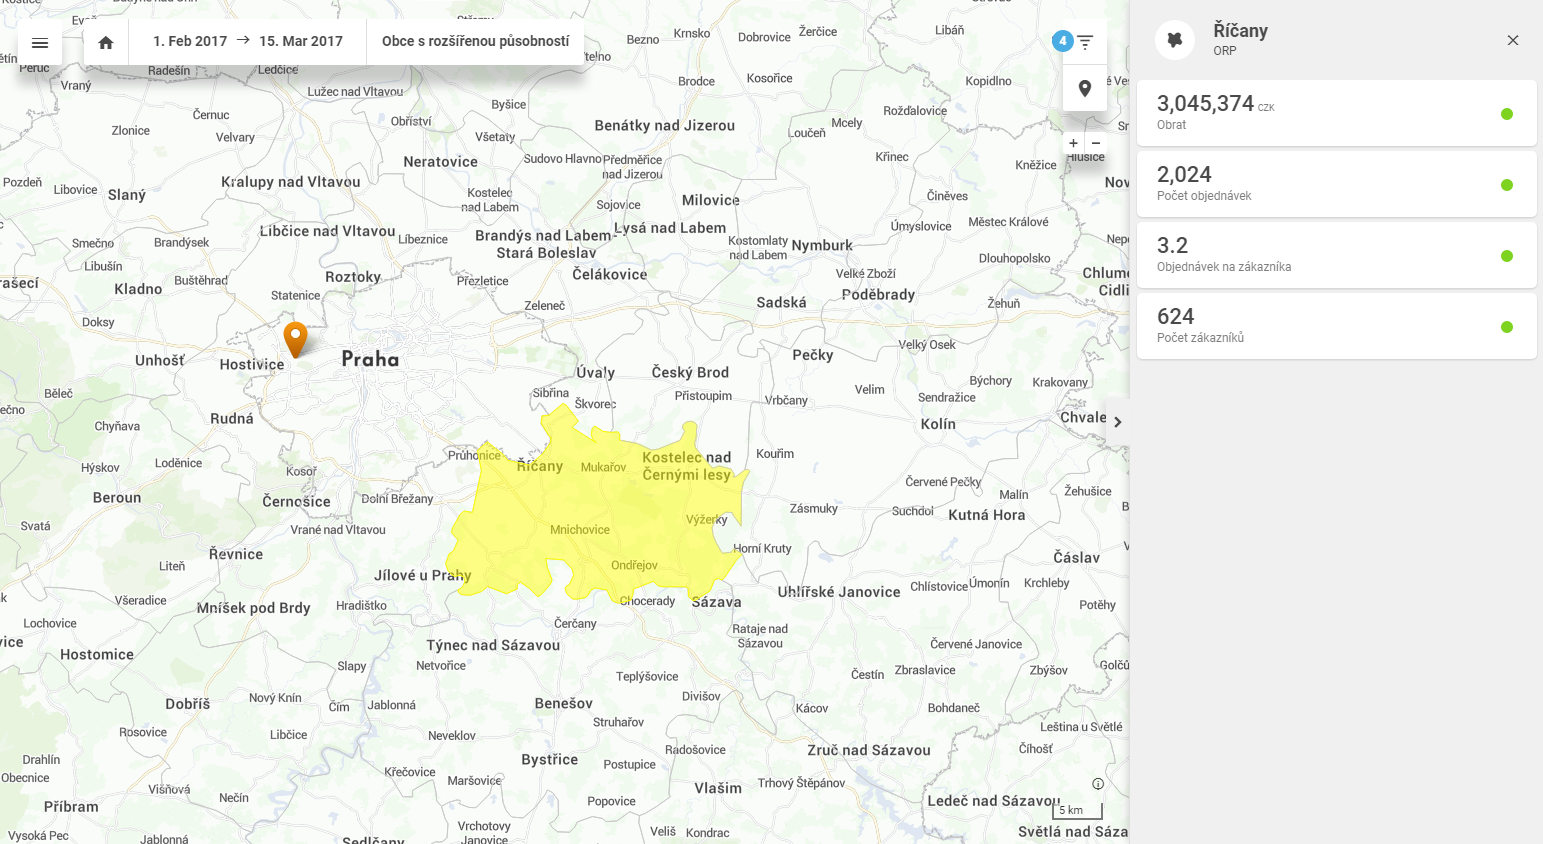
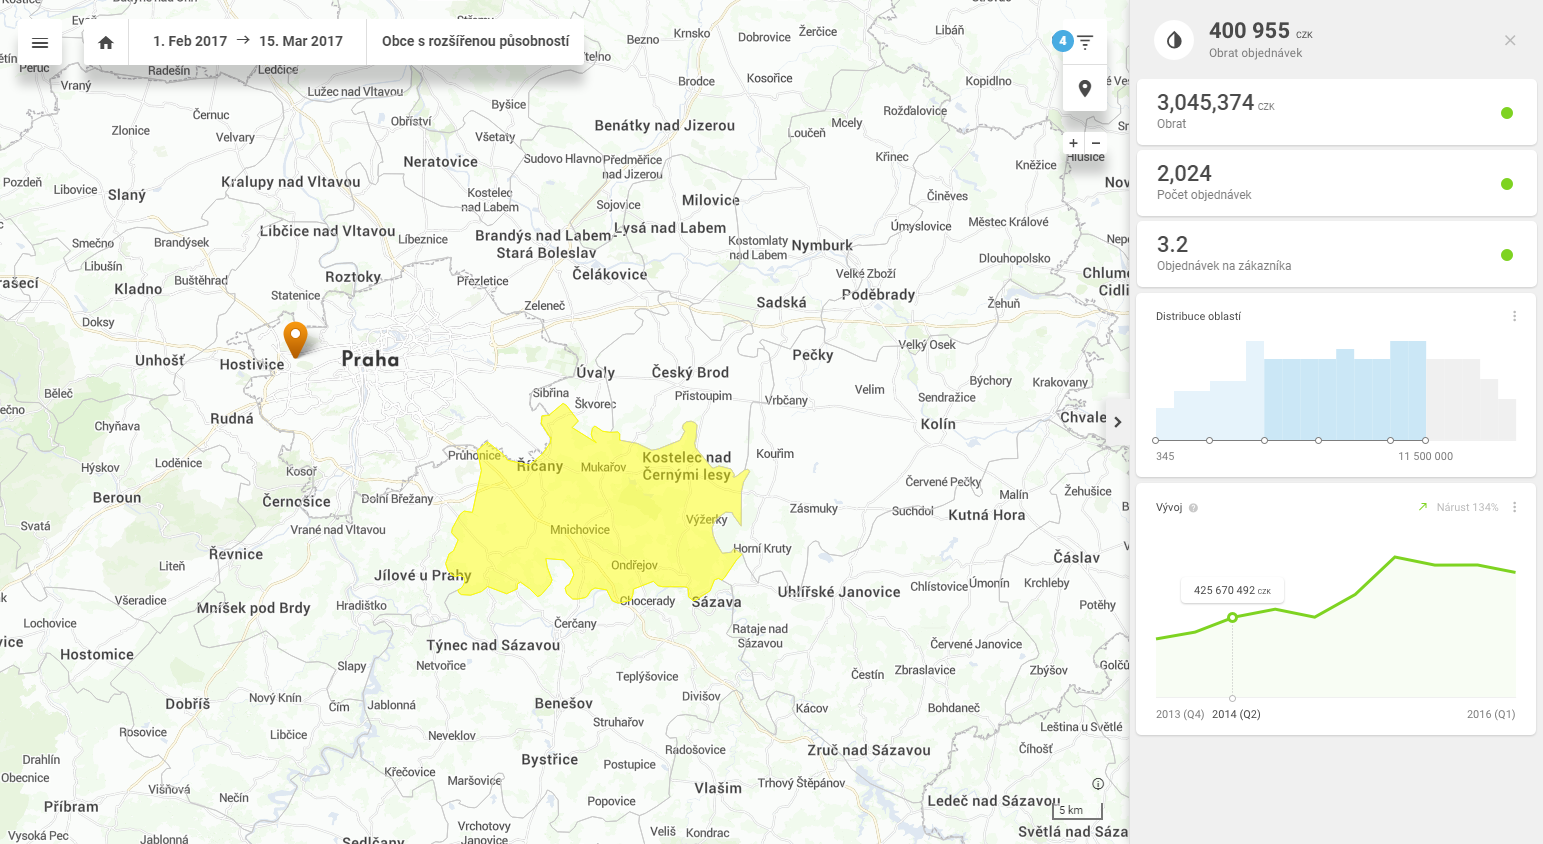
Handle bottom-right and bottom-left positions, add example

diff --git a/dist/onboard.min.js b/dist/onboard.min.js
@@ -1,2 +1,2 @@
[2 lines of base64/hex data omitted]
 //# sourceMappingURL=onboard.min.js.map

diff --git a/index.html b/index.html
@@ -28,8 +28,8 @@
 
     .side-elements-ct {
         position:absolute;
-        left: 1009px;
-        top:61px;
+        left: 1138px;
+        top: 79px;
         height: 430px;
         width:400px;
     }
@@ -44,12 +44,21 @@
 
     .filter-element {
         position:absolute;
-        top: 10px;
-        left: 922.5px;
+        top: 29px;
+        left: 1051px;
         border-radius: 50%;
         width:23px;
         height: 23px;
     }    
+
+    .graph-element {
+        position:absolute;
+        top: 485px;
+        left: 1137px;
+        border-radius: 5px;
+        width:400px;
+        height: 251px;
+    }        
 
     .map {
         position: absolute;
@@ -98,29 +107,35 @@
     </div> 
     
     <img src="images/1.png" width="1543" height="845" />
-    <div class="menu-element" />
+    <div class="menu-element"></div>
     <div class="side-elements-ct">
         <div class="side-element"></div>
         <div class="side-element"></div>
         <div class="side-element"></div>
-        <div class="side-element"></div>
     </div>
-    <div class="filter-element" />
+    <div class="graph-element"></div>
+    <div class="filter-element"></div>
     <script>
         var onboard = new Onboard({
             nextText:"Další",
             understandText:"Rozumím",            
             steps:[
+                                {
+                    selection:d3.selectAll(".ricany"),
+                    title:"Mapa ukazka - Ricany",
+                    text:"Indikátory ve výchozím stavu ukazují hodnoty hromadně za celou síť. Zvolením oblasti nebo bodu v mapě se zobrazí hodnoty už jen pro vybraný objekt. Zvolením indikátoru se jev zobrazuje v mapě."
+                    
+                },
+                {
+                    selection:d3.select(".graph-element"),
+                    title:"Data mimo dosah mapy",
+                    text:"Odzoomovali jste mimo možnosti prohlížeče zobrazit takové množství oblastí zaráz. Kliknutím na ikonu se mapa přiblíží na nejbližší podporovanou úroveň zvolené graularity. Případně můžete vybrat jinou úroveň granularity, složenou z menšího počtu oblastí."
+                    
+                },                
                 {
                     selection:d3.select(".menu-element"),
                     title:"Data mimo dosah mapy",
                     text:"Odzoomovali jste mimo možnosti prohlížeče zobrazit takové množství oblastí zaráz. Kliknutím na ikonu se mapa přiblíží na nejbližší podporovanou úroveň zvolené graularity. Případně můžete vybrat jinou úroveň granularity, složenou z menšího počtu oblastí."
-                    
-                },
-                {
-                    selection:d3.selectAll(".ricany"),
-                    title:"Mapa ukazka - Ricany",
-                    text:"Indikátory ve výchozím stavu ukazují hodnoty hromadně za celou síť. Zvolením oblasti nebo bodu v mapě se zobrazí hodnoty už jen pro vybraný objekt. Zvolením indikátoru se jev zobrazuje v mapě."
                     
                 },
 

diff --git a/src/PositionResolver.js b/src/PositionResolver.js
@@ -23,7 +23,7 @@ export default class PositionResolver {
 			"left-top":targetBox.left + targetBox.width/2 + arrowBox.width,
 			"right-top":targetBox.left - arrowBox.width - windowBox.width,
 			"left-bottom":targetBox.left + targetBox.width/2 + arrowBox.width,
-			"right-bottom":targetBox.left + targetBox.width/2,
+			"right-bottom":targetBox.left - windowBox.width - arrowBox.width,
 		}[position];
 	}
 
@@ -31,8 +31,8 @@ export default class PositionResolver {
 		return {
 			"left-top":targetBox.top + targetBox.height + arrowBox.height,
 			"right-top":targetBox.top + targetBox.height/2 + arrowBox.height,
-			"left-bottom":targetBox.top - windowBox.height + arrowBox.height,
-			"right-bottom":targetBox.top + targetBox.height/2,
+			"left-bottom":targetBox.top - windowBox.height - arrowBox.height,
+			"right-bottom":targetBox.top - windowBox.height + arrowBox.height,
 		}[position];
 	}	
 
@@ -53,7 +53,7 @@ export default class PositionResolver {
 			"left-top":targetBox.left + targetBox.width/2,
 			"right-top":targetBox.left - arrowBox.width,
 			"left-bottom":targetBox.left + targetBox.width/2 ,
-			"right-bottom":targetBox.left + targetBox.width/2,
+			"right-bottom":targetBox.left - arrowBox.width,
 		}[position];
 	}
 
@@ -62,7 +62,7 @@ export default class PositionResolver {
 			"left-top":targetBox.top + targetBox.height,
 			"right-top":targetBox.top + targetBox.height/2,
 			"left-bottom":targetBox.top - arrowBox.height,
-			"right-bottom":targetBox.top + targetBox.height/2,
+			"right-bottom":targetBox.top + arrowBox.height,
 		}[position];
 	}
 

diff --git a/src/Onboard.css b/src/Onboard.css
@@ -115,6 +115,8 @@
 
 .arrow-right-bottom {
     transform: scaleY(-1);
+    margin-left: -10px;
+    margin-top: 10px;
 }
 
 .arrow-left-top {
